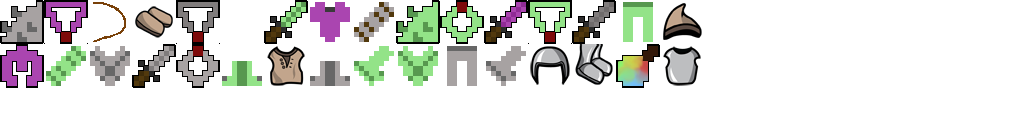
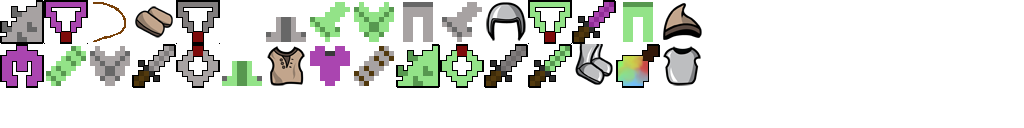
Updated Gradle Dependencies. Changed Claymore to Battle Axe for Barbarian class.

Changed region(s): [[0.25, 0.0, 0.5625, 0.6875], [0.5625, 0.0312, 0.625, 0.2188]]

diff --git a/core/src/com/vhelium/lotig/scene/gamescene/client/TestRangeUtility.java b/core/src/com/vhelium/lotig/scene/gamescene/client/TestRangeUtility.java
@@ -18,7 +18,7 @@ import com.vhelium.lotig.scene.gamescene.client.items.offhand.EquipShield;
 import com.vhelium.lotig.scene.gamescene.client.items.offhand.EquipTome;
 import com.vhelium.lotig.scene.gamescene.client.items.offhand.EquipTrophy;
 import com.vhelium.lotig.scene.gamescene.client.items.weapon.EquipBow;
-import com.vhelium.lotig.scene.gamescene.client.items.weapon.EquipClaymore;
+import com.vhelium.lotig.scene.gamescene.client.items.weapon.EquipBattleAxe;
 import com.vhelium.lotig.scene.gamescene.client.items.weapon.EquipLongsword;
 import com.vhelium.lotig.scene.gamescene.client.items.weapon.EquipRod;
 import com.vhelium.lotig.scene.gamescene.client.items.weapon.EquipScepter;
@@ -43,11 +43,11 @@ public abstract class TestRangeUtility
 		
 		if(player.getPlayerClass().equalsIgnoreCase("Barbarian"))
 		{
-			player.getInventory().useItem(EquipClaymore.randomEquip(rangeNr, player.getLevel().getDifficulty()), false);
+			player.getInventory().useItem(EquipBattleAxe.randomEquip(rangeNr, player.getLevel().getDifficulty()), false);
 			player.getInventory().useItem(EquipInsignia.randomEquip(rangeNr, player.getLevel().getDifficulty()), false);
 			player.getInventory().clearItems();
-			player.getInventory().addItem(EquipClaymore.randomEquip(rangeNr, player.getLevel().getDifficulty()), true, false);
-			player.getInventory().addItem(EquipClaymore.randomEquip(rangeNr, player.getLevel().getDifficulty()), true, false);
+			player.getInventory().addItem(EquipBattleAxe.randomEquip(rangeNr, player.getLevel().getDifficulty()), true, false);
+			player.getInventory().addItem(EquipBattleAxe.randomEquip(rangeNr, player.getLevel().getDifficulty()), true, false);
 		}
 		else if(player.getPlayerClass().equalsIgnoreCase("Dark Priest"))
 		{

diff --git a/core/src/com/vhelium/lotig/constants/DropGenerator.java b/core/src/com/vhelium/lotig/constants/DropGenerator.java
@@ -26,7 +26,7 @@ import com.vhelium.lotig.scene.gamescene.client.items.offhand.EquipShield;
 import com.vhelium.lotig.scene.gamescene.client.items.offhand.EquipTome;
 import com.vhelium.lotig.scene.gamescene.client.items.offhand.EquipTrophy;
 import com.vhelium.lotig.scene.gamescene.client.items.weapon.EquipBow;
-import com.vhelium.lotig.scene.gamescene.client.items.weapon.EquipClaymore;
+import com.vhelium.lotig.scene.gamescene.client.items.weapon.EquipBattleAxe;
 import com.vhelium.lotig.scene.gamescene.client.items.weapon.EquipLongsword;
 import com.vhelium.lotig.scene.gamescene.client.items.weapon.EquipRod;
 import com.vhelium.lotig.scene.gamescene.client.items.weapon.EquipScepter;
@@ -108,7 +108,7 @@ public abstract class DropGenerator
 			case 9:
 				return EquipBow.randomEquip(level, modifier);
 			case 10:
-				return EquipClaymore.randomEquip(level, modifier);
+				return EquipBattleAxe.randomEquip(level, modifier);
 			case 11:
 				return EquipLongsword.randomEquip(level, modifier);
 			case 12:
@@ -183,7 +183,7 @@ public abstract class DropGenerator
 			case 0:
 				return EquipBow.randomEquip(level, modifier);
 			case 1:
-				return EquipClaymore.randomEquip(level, modifier);
+				return EquipBattleAxe.randomEquip(level, modifier);
 			case 2:
 				return EquipLongsword.randomEquip(level, modifier);
 			case 3:

diff --git a/core/src/com/vhelium/lotig/scene/gamescene/client/items/weapon/EquipBattleAxe.java b/core/src/com/vhelium/lotig/scene/gamescene/client/items/weapon/EquipBattleAxe.java
@@ -4,12 +4,12 @@ import java.util.StringTokenizer;
 import com.vhelium.lotig.scene.gamescene.client.items.Equip;
 import com.vhelium.lotig.scene.gamescene.client.items.ItemCategory;
 
-public class EquipClaymore extends EquipWeapon
+public class EquipBattleAxe extends EquipWeapon
 {
-	protected EquipClaymore()
+	protected EquipBattleAxe()
 	{
 		super();
-		NAME = "Claymore";
+		NAME = "Battle Axe";
 		featuredAttribute = "DMG";
 		playerClass = "Barbarian";
 		CATEGORY = ItemCategory.Weapon;
@@ -24,17 +24,17 @@ public class EquipClaymore extends EquipWeapon
 	
 	public static Equip randomEquip(int level, int modifier)
 	{
-		EquipClaymore claymore = new EquipClaymore();
-		claymore.randomStats(level, modifier);
-		claymore.randomDamage(level);
-		claymore.applyIcon();
+		EquipBattleAxe battleAxe = new EquipBattleAxe();
+		battleAxe.randomStats(level, modifier);
+		battleAxe.randomDamage(level);
+		battleAxe.applyIcon();
 		
-		return claymore;
+		return battleAxe;
 	}
 	
-	public static EquipClaymore createItemFromStringFormat(StringTokenizer st)
+	public static EquipBattleAxe createItemFromStringFormat(StringTokenizer st)
 	{
-		EquipClaymore res = new EquipClaymore();
+		EquipBattleAxe res = new EquipBattleAxe();
 		Equip.applyStatsFromStringFormat(st, res);
 		res.applyIcon();
 		return res;

diff --git a/core/src/com/vhelium/lotig/scene/gamescene/client/items/Item.java b/core/src/com/vhelium/lotig/scene/gamescene/client/items/Item.java
@@ -26,8 +26,8 @@ import com.vhelium.lotig.scene.gamescene.client.items.offhand.EquipInsignia;
 import com.vhelium.lotig.scene.gamescene.client.items.offhand.EquipShield;
 import com.vhelium.lotig.scene.gamescene.client.items.offhand.EquipTome;
 import com.vhelium.lotig.scene.gamescene.client.items.offhand.EquipTrophy;
+import com.vhelium.lotig.scene.gamescene.client.items.weapon.EquipBattleAxe;
 import com.vhelium.lotig.scene.gamescene.client.items.weapon.EquipBow;
-import com.vhelium.lotig.scene.gamescene.client.items.weapon.EquipClaymore;
 import com.vhelium.lotig.scene.gamescene.client.items.weapon.EquipLongsword;
 import com.vhelium.lotig.scene.gamescene.client.items.weapon.EquipRod;
 import com.vhelium.lotig.scene.gamescene.client.items.weapon.EquipScepter;
@@ -101,8 +101,8 @@ public abstract class Item
 		else if(type.equals("Shoulder"))
 			return EquipShoulder.createItemFromStringFormat(st);
 		
-		else if(type.equals("Claymore"))
-			return EquipClaymore.createItemFromStringFormat(st);
+		else if(type.equals("Battle Axe") || type.equals("Claymore"))
+			return EquipBattleAxe.createItemFromStringFormat(st);
 		
 		else if(type.equals("Longsword"))
 			return EquipLongsword.createItemFromStringFormat(st);

diff --git a/core/src/com/vhelium/lotig/scene/gamescene/client/hud/GameSubHUD_Inventory.java b/core/src/com/vhelium/lotig/scene/gamescene/client/hud/GameSubHUD_Inventory.java
@@ -188,7 +188,7 @@ public class GameSubHUD_Inventory extends GameHUDMenu
 //		playerInventory.clearItems();
 //		for(int i = 0; i < 40; i++)
 //			playerInventory.addItem(EquipShoulder.randomEquip(25, 3), false, false);
-//		playerInventory.addItem(EquipClaymore.randomEquip(25, 3), false, true);
+//		playerInventory.addItem(EquipBattleAxe.randomEquip(25, 3), false, true);
 //		playerInventory.addItem(EquipLongsword.randomEquip(10, 1), false, false);
 //		playerInventory.addItem(EquipWand.randomEquip(10, 1), false, true);
 //		playerInventory.addItem(Glyph.getGlyph("Fire Trap", 2), false, false);

diff --git a/core/src/com/vhelium/lotig/scene/gamescene/client/player/PlayerClient.java b/core/src/com/vhelium/lotig/scene/gamescene/client/player/PlayerClient.java
@@ -1362,7 +1362,7 @@ public class PlayerClient extends EntityClientMixin
 	{
 		if(playerClass.equalsIgnoreCase("Barbarian"))
 		{
-			inventory.useItem(Item.getItemFromStringFormat("Claymore:1:DMG:90:1:1"), false);
+			inventory.useItem(Item.getItemFromStringFormat("Battle Axe:1:DMG:90:1:1"), false);
 			inventory.useItem(Item.getItemFromStringFormat("Insignia:1:STR:5:1:1"), false);
 		}
 		else if(playerClass.equalsIgnoreCase("Dark Priest"))

diff --git a/core/src/com/vhelium/lotig/scene/gamescene/client/hud/GameHUD_Tools.java b/core/src/com/vhelium/lotig/scene/gamescene/client/hud/GameHUD_Tools.java
@@ -93,7 +93,6 @@ public class GameHUD_Tools extends GameHUDMenu
 			{
 				SoundManager.playSound(SoundFile.menu_ingame_selected);
 				hudCallback.toggle("connection");
-//				hudCallback.getHUD().displayReward("You got a reward!", 10000, 200, EquipClaymore.randomEquip(2, 10), EquipBoots.randomEquip(10, 10));
 			}
 		});
 		this.addActor(cmdConnection);
